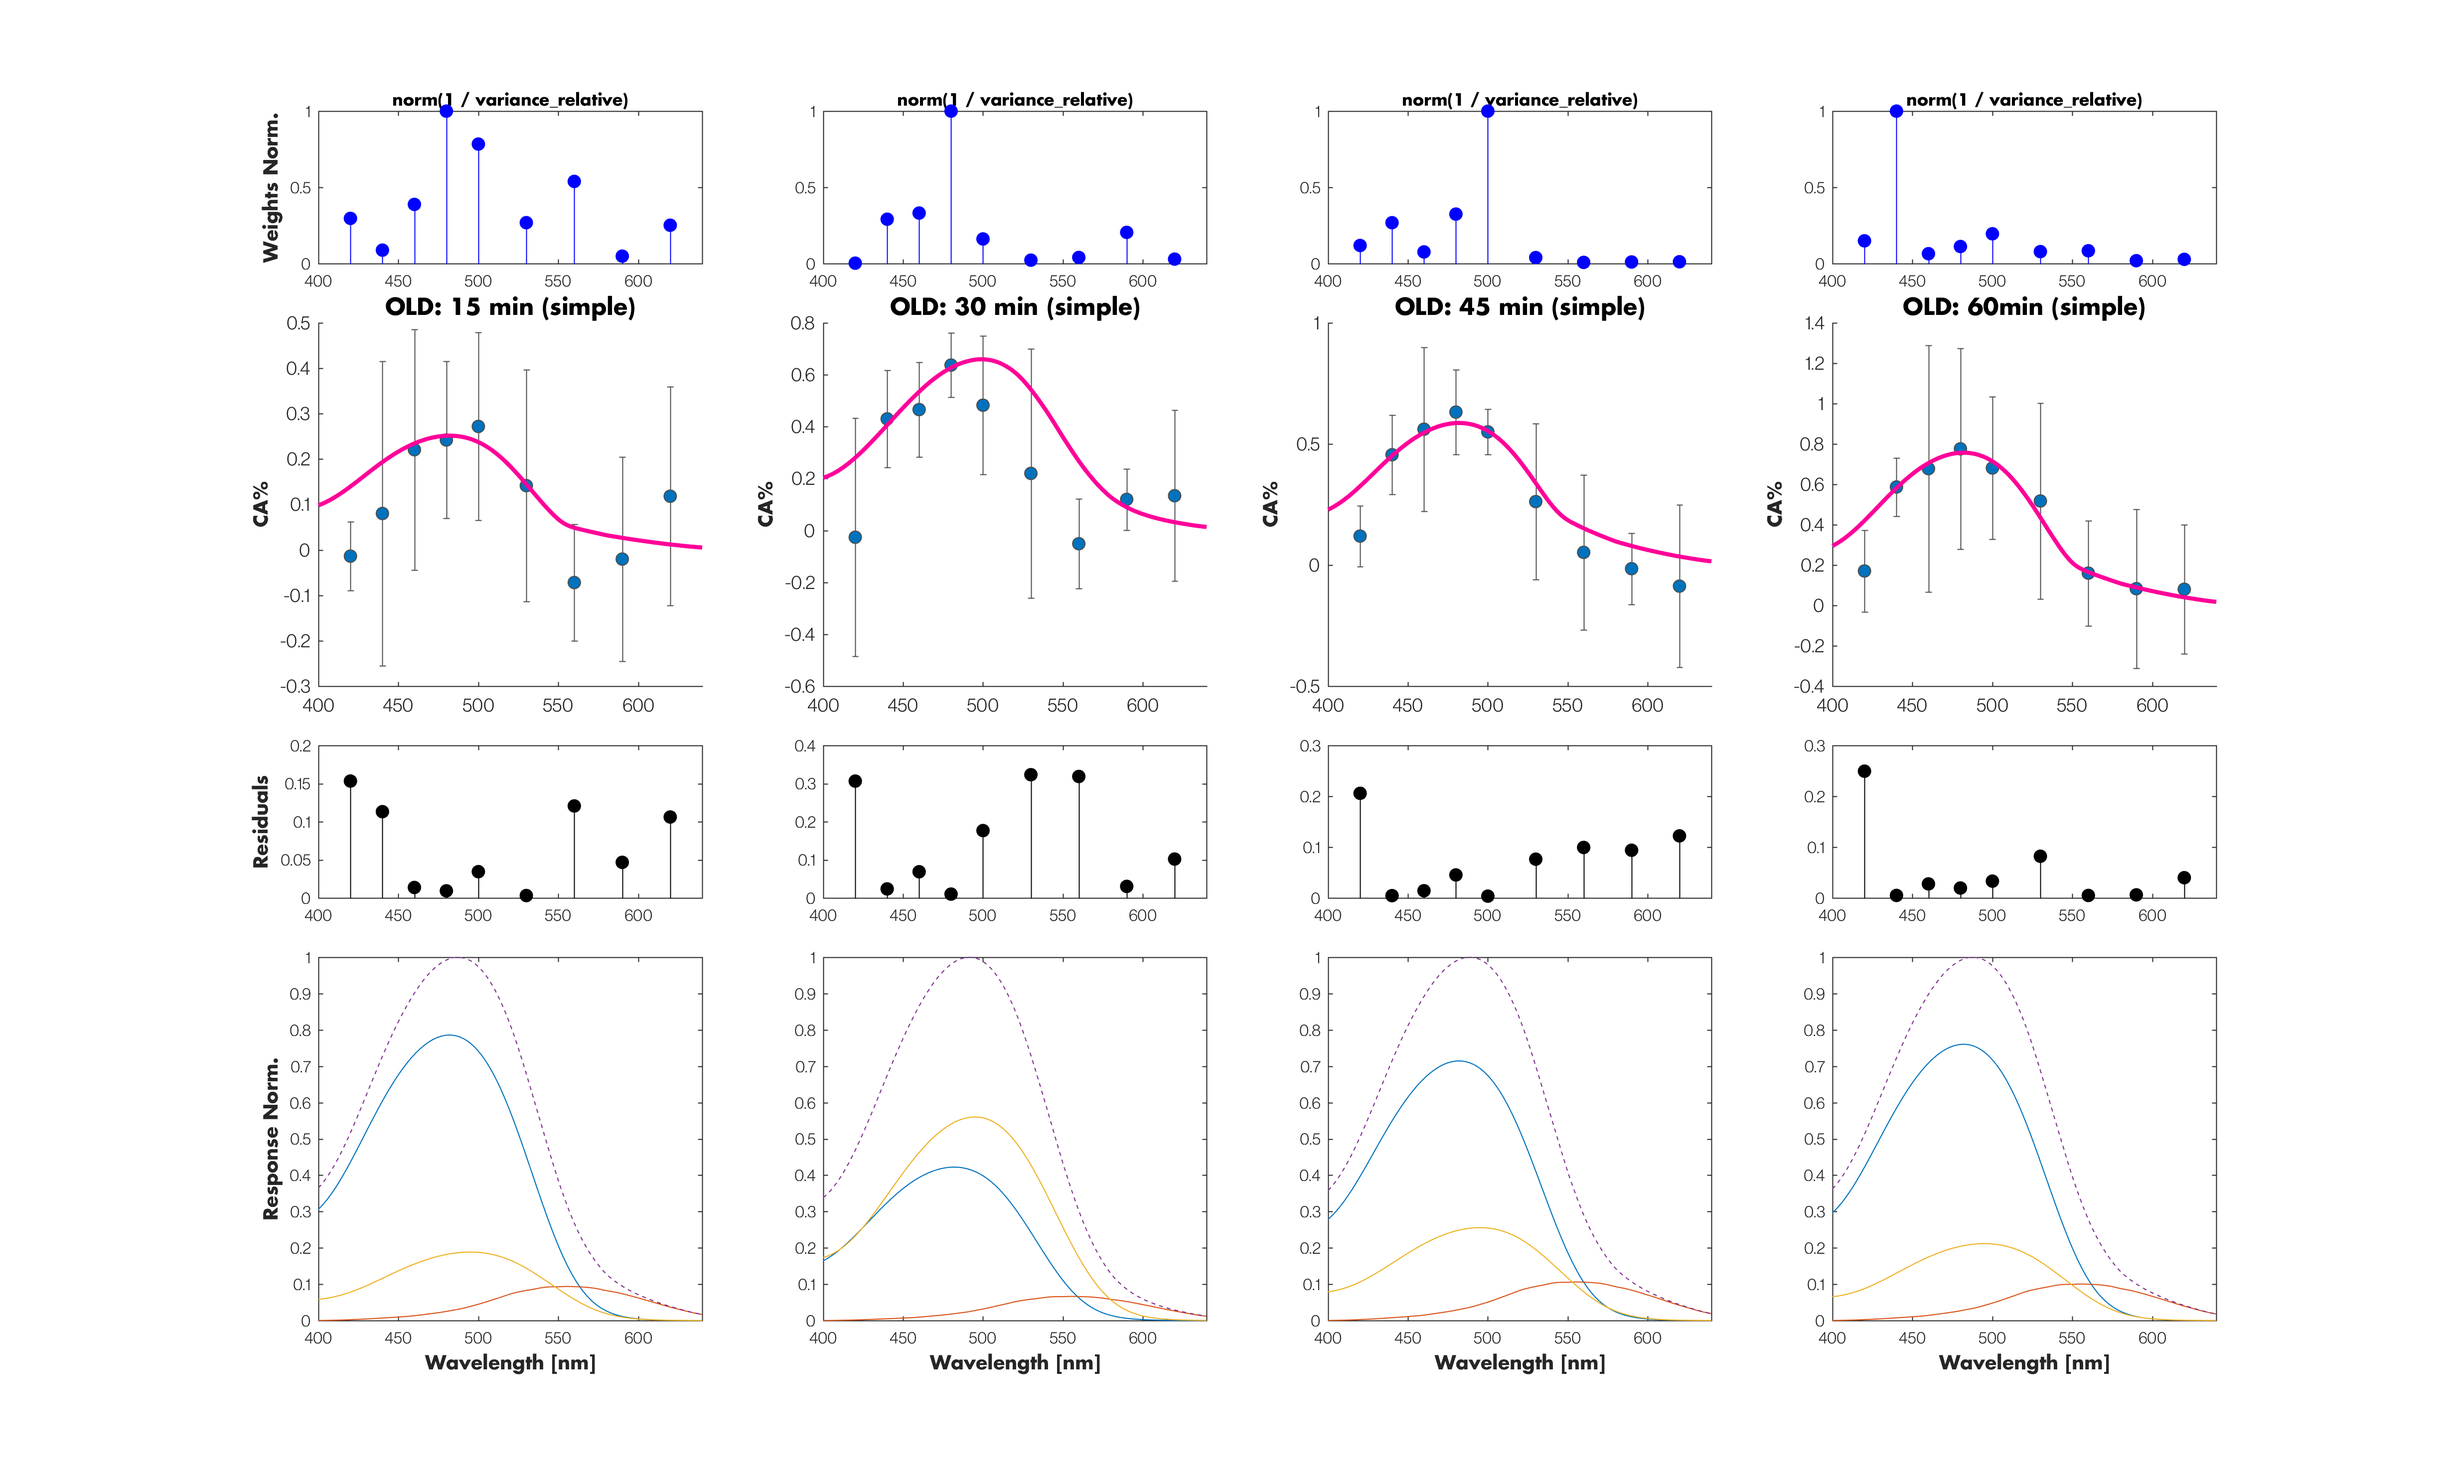
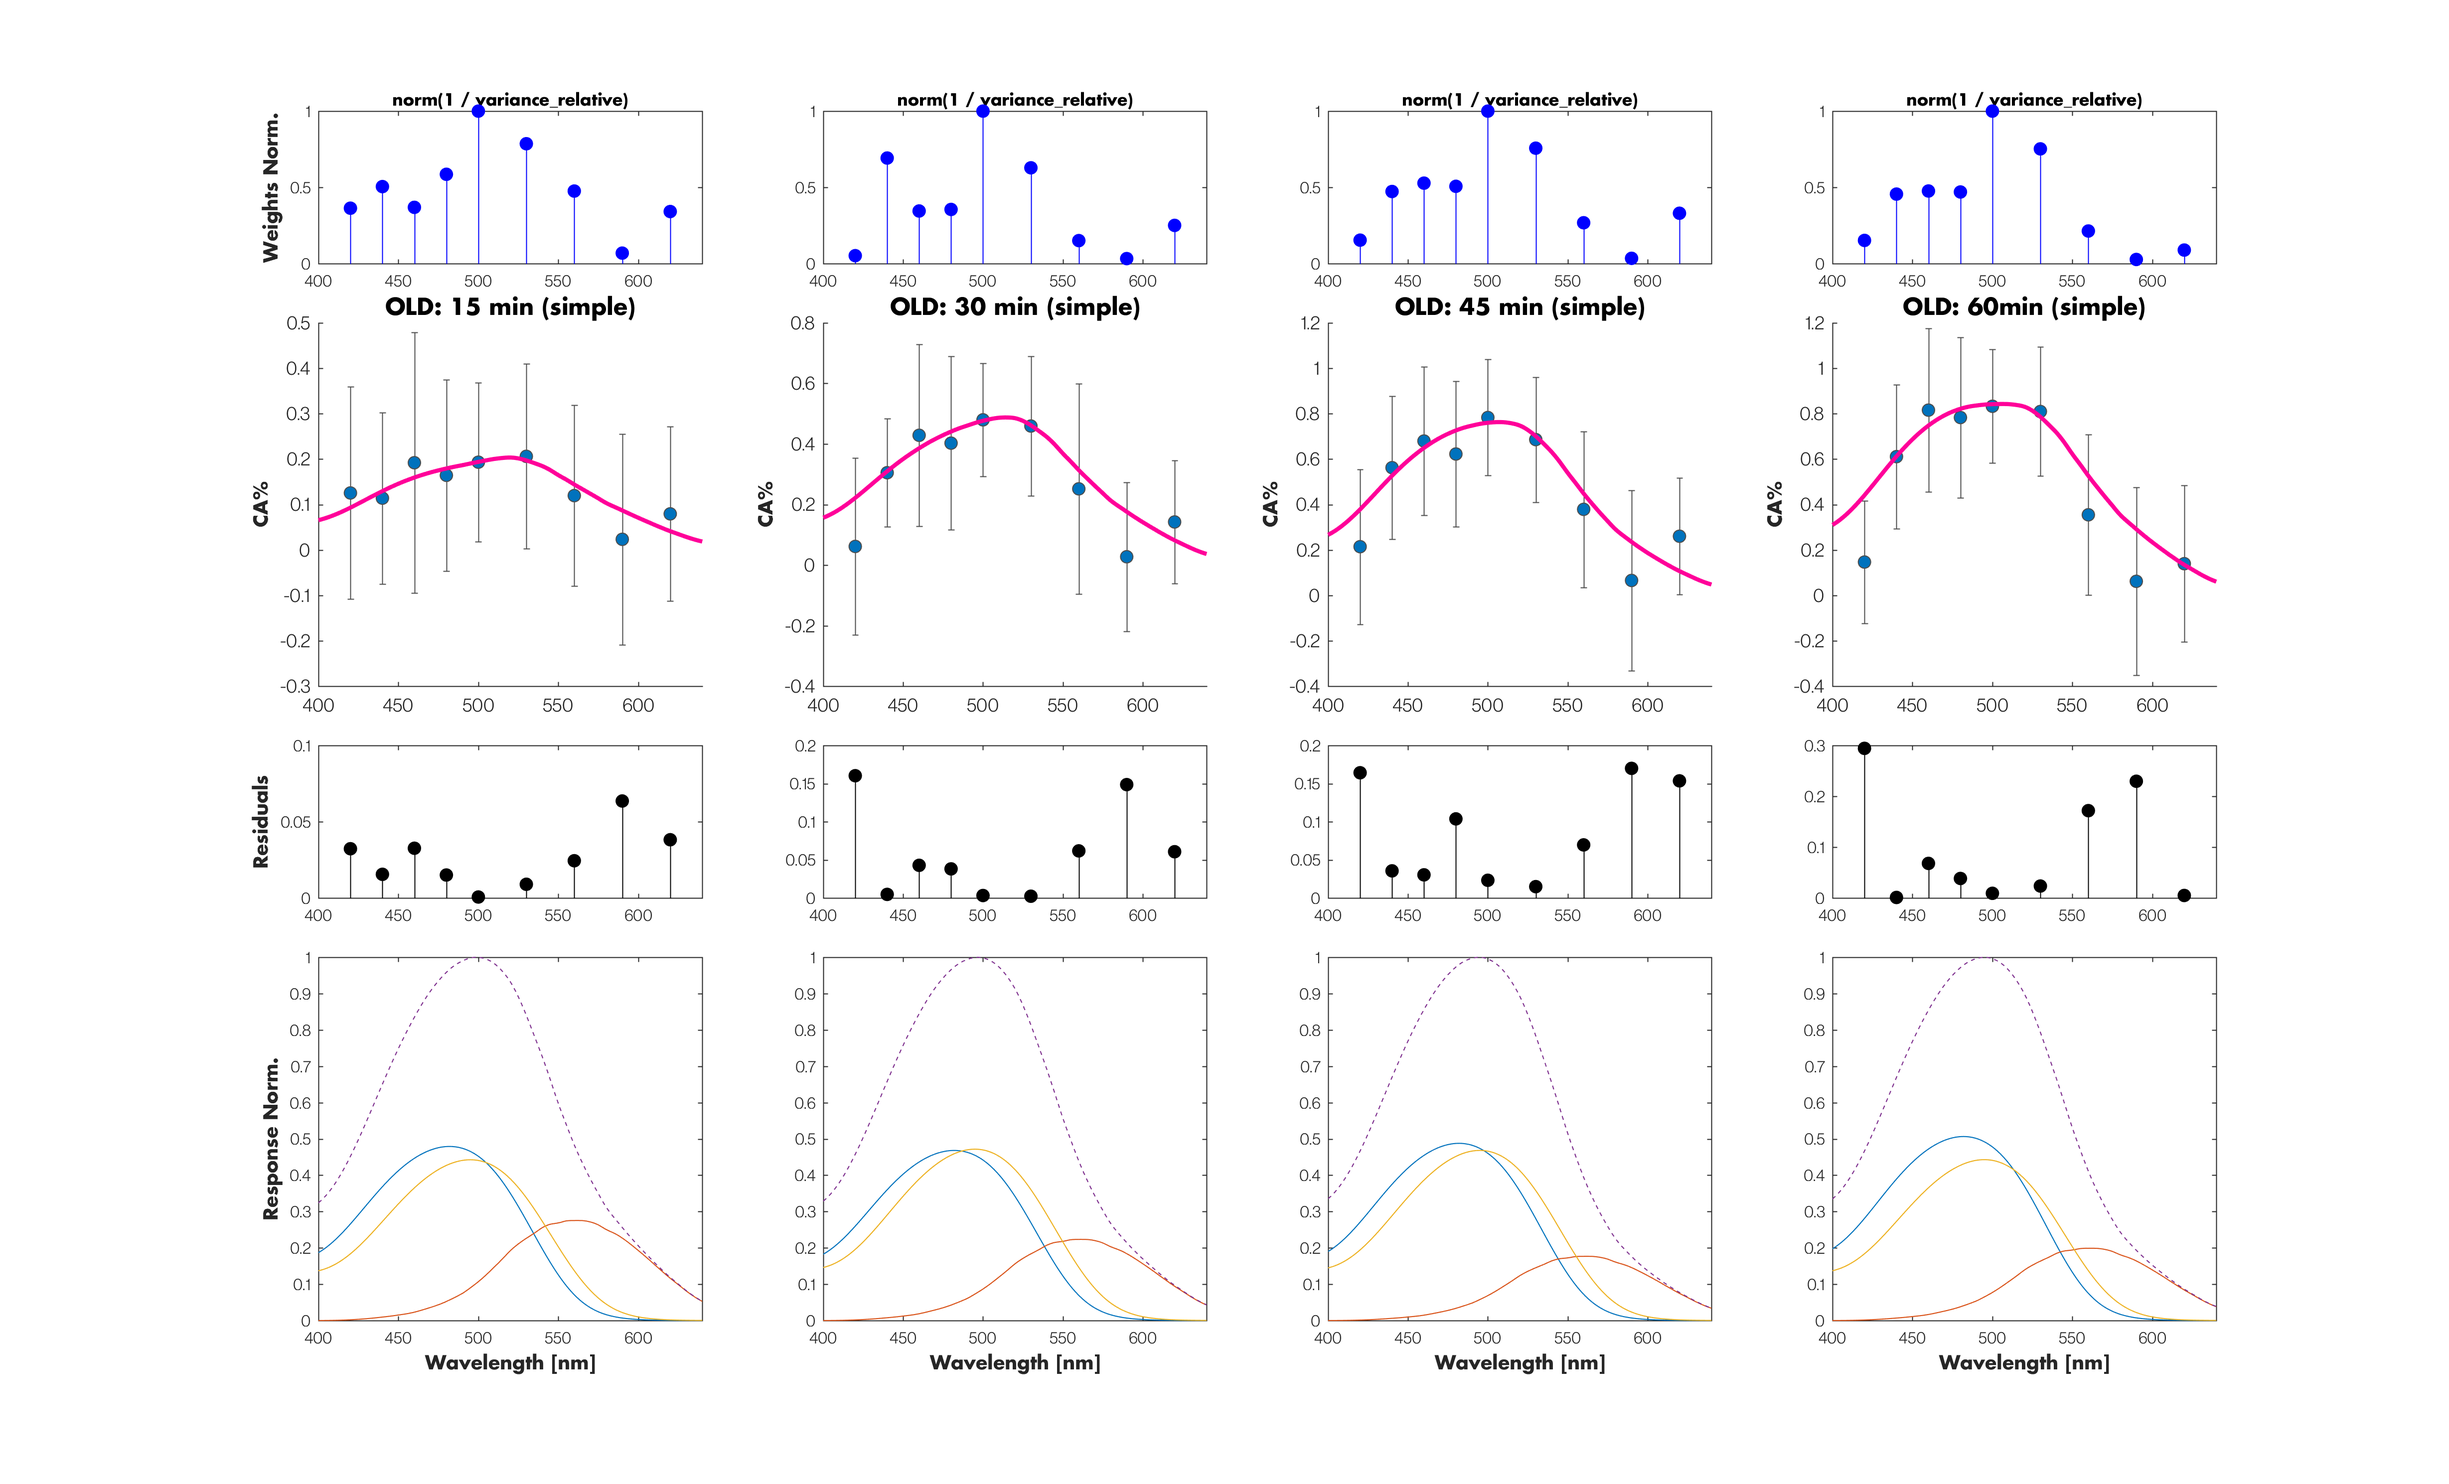
copy+paste error fixed

diff --git a/matlab/visualize_pooling_models.m b/matlab/visualize_pooling_models.m
@@ -22,7 +22,7 @@ function visualize_pooling_models(OLD_FIT, YOUNG_FIT, OLD_stats, YOUNG_stats, ..
                  timepoints_strings, scrsz, plotStyle)
              
     % OLD
-    group_plot(YOUNG_FIT, YOUNG_stats, 'OLD',...
+    group_plot(OLD_FIT, OLD_stats, 'OLD',...
                  model_string, normalize_method, ...
                  tp_ind, norm_ind, model_ind, error_for_fit_string, ...
                  timepoints_strings, scrsz, plotStyle)
